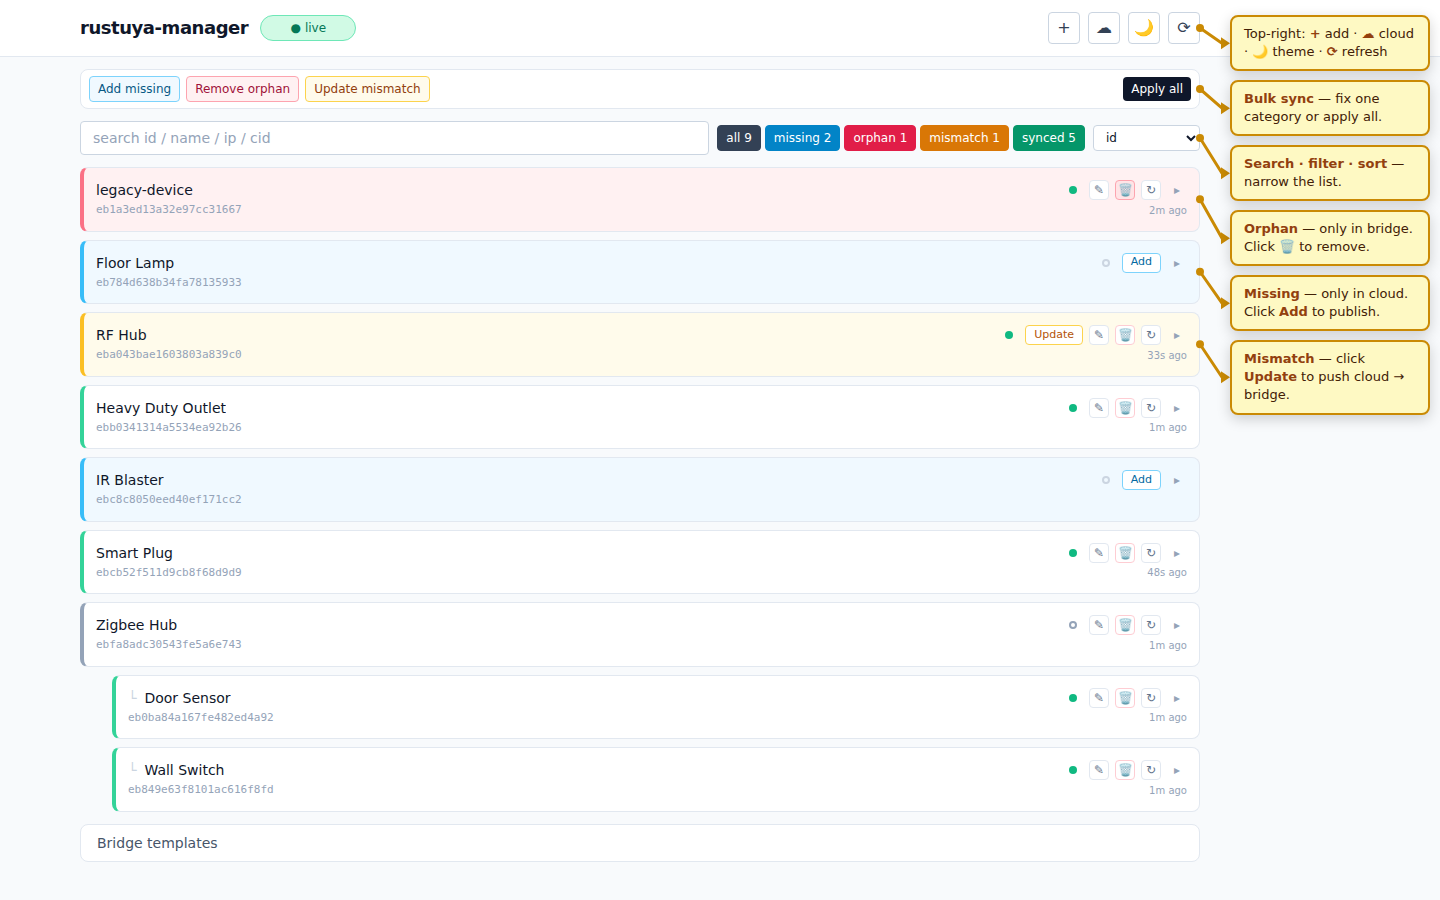
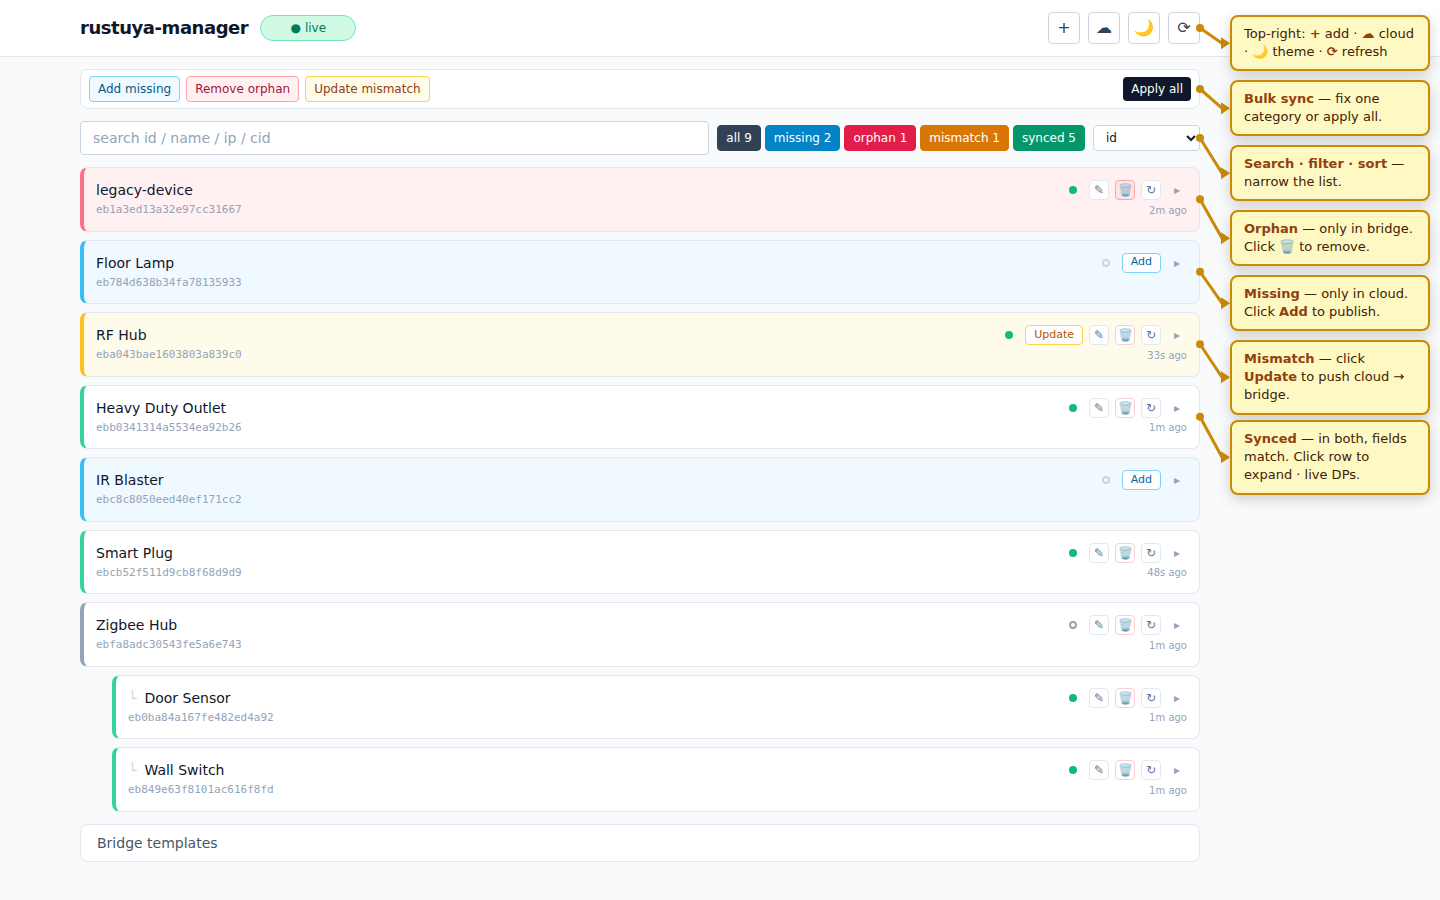
docs: annotate the synced category too
Add a seventh callout pointing at the first synced card (Heavy Duty
Outlet), completing the legend for all four sync classes — every card
state in the screenshot now has a matching explanation in the right
margin. Position lands on the same 15px rhythm as the rest of the
stack.

Changed region(s): [[0.8438, 0.4667, 1.0, 0.56]]

diff --git a/scripts/capture_screenshots.py b/scripts/capture_screenshots.py
@@ -311,6 +311,11 @@ _ANNOTATE_JS = r"""
         '<b>Mismatch</b> — click <b>Update</b> to push cloud → bridge.',
         1390, 340
     );
+    annotate(
+        findCardByName('Heavy Duty Outlet'),
+        '<b>Synced</b> — in both, fields match. Click row to expand · live DPs.',
+        1390, 420
+    );
 }
 """
 
